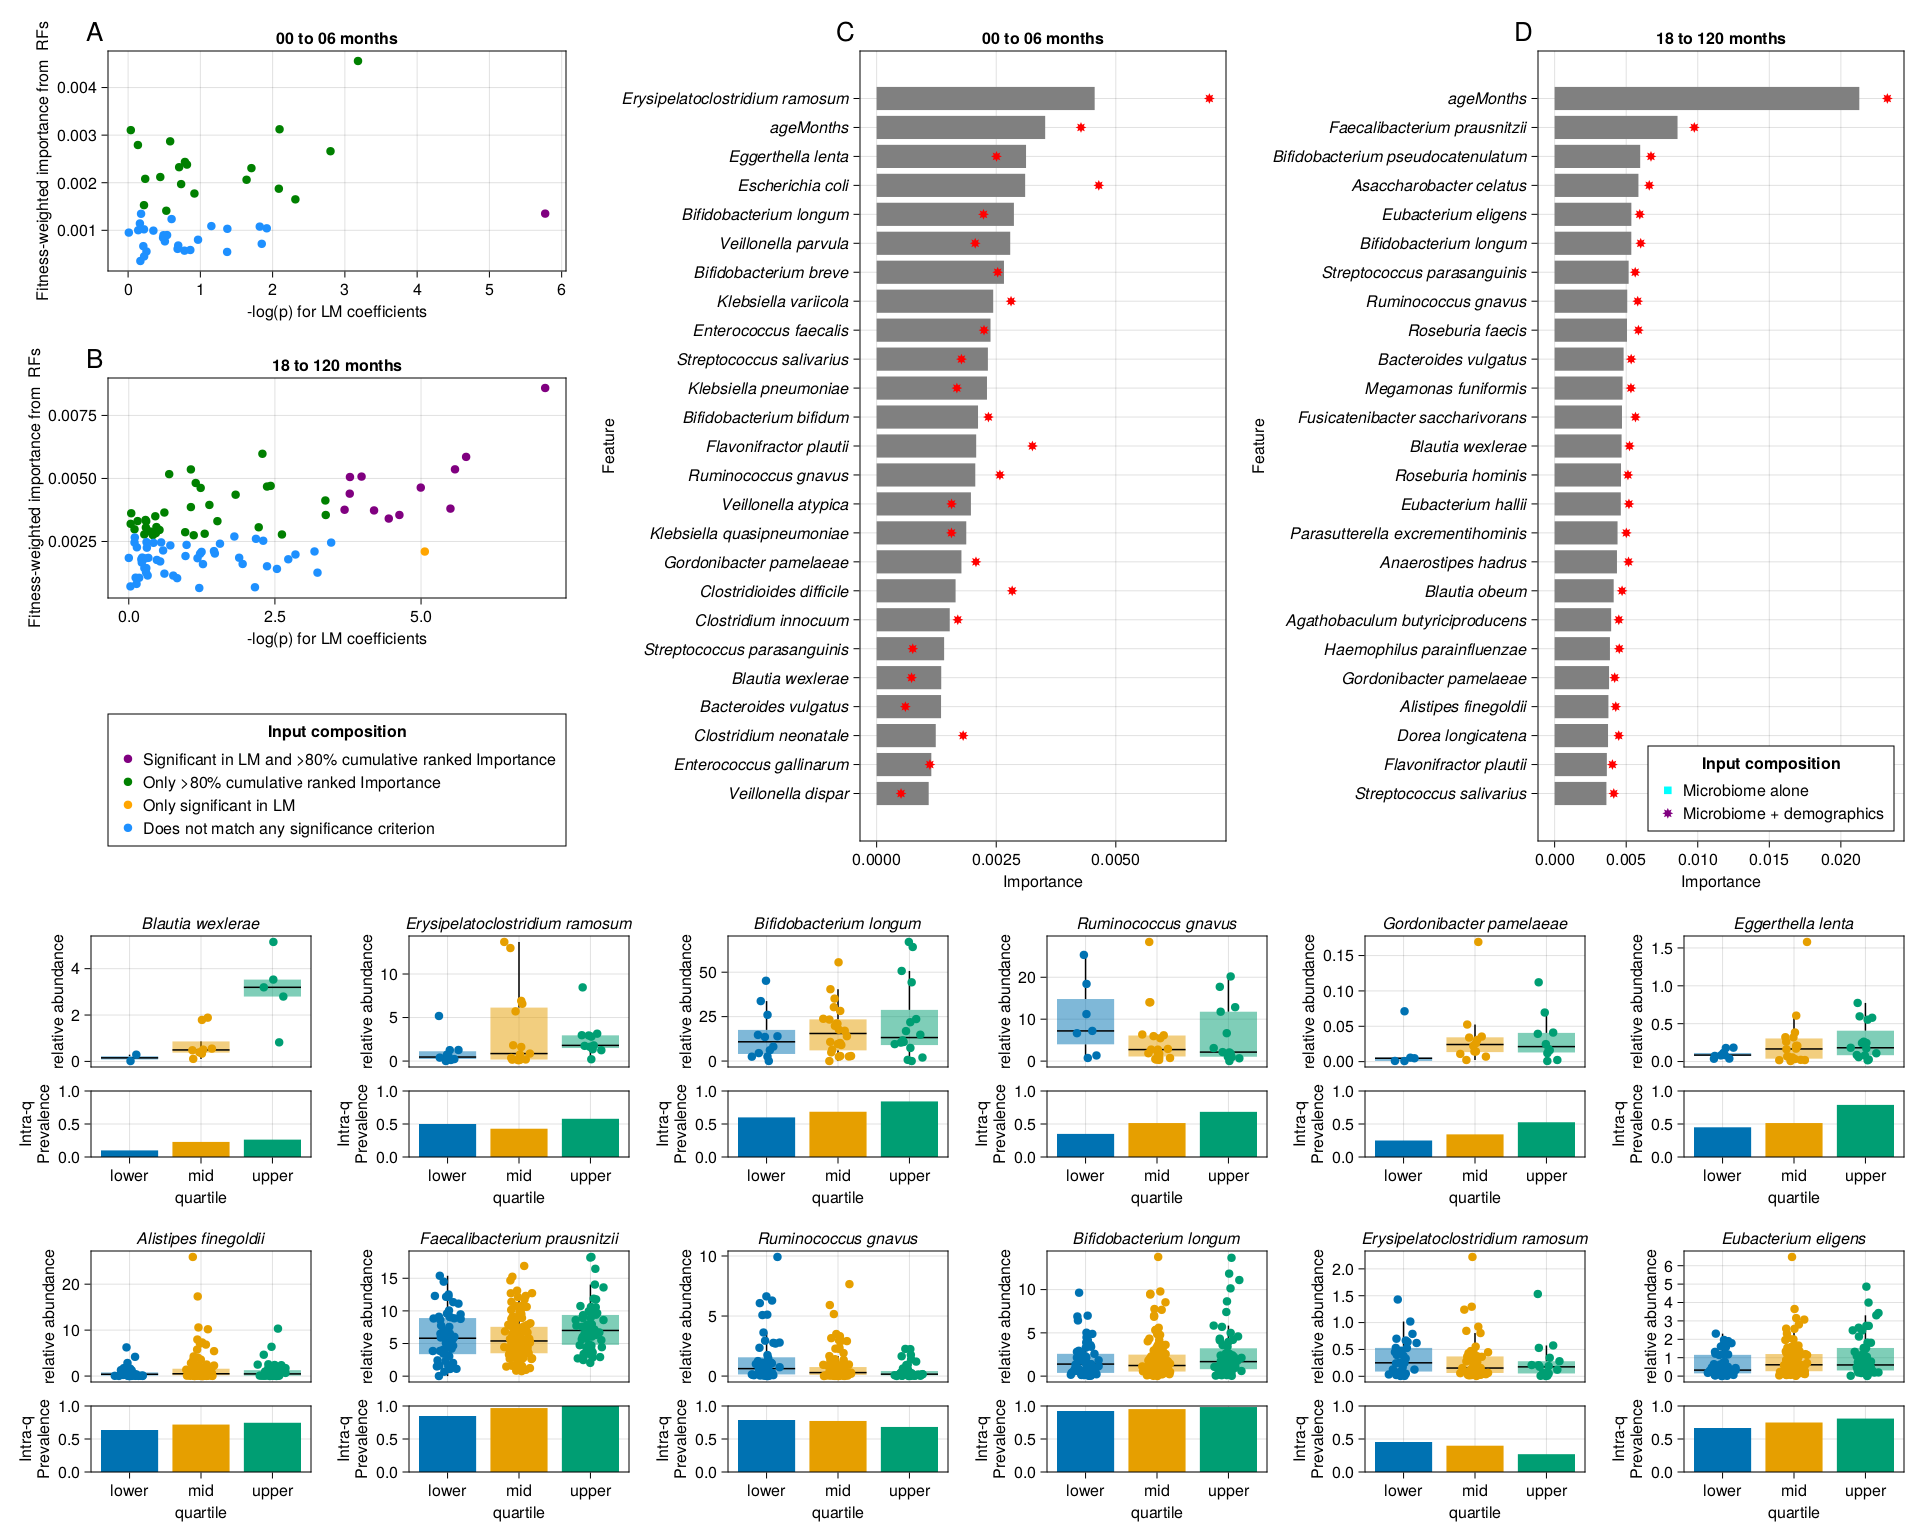
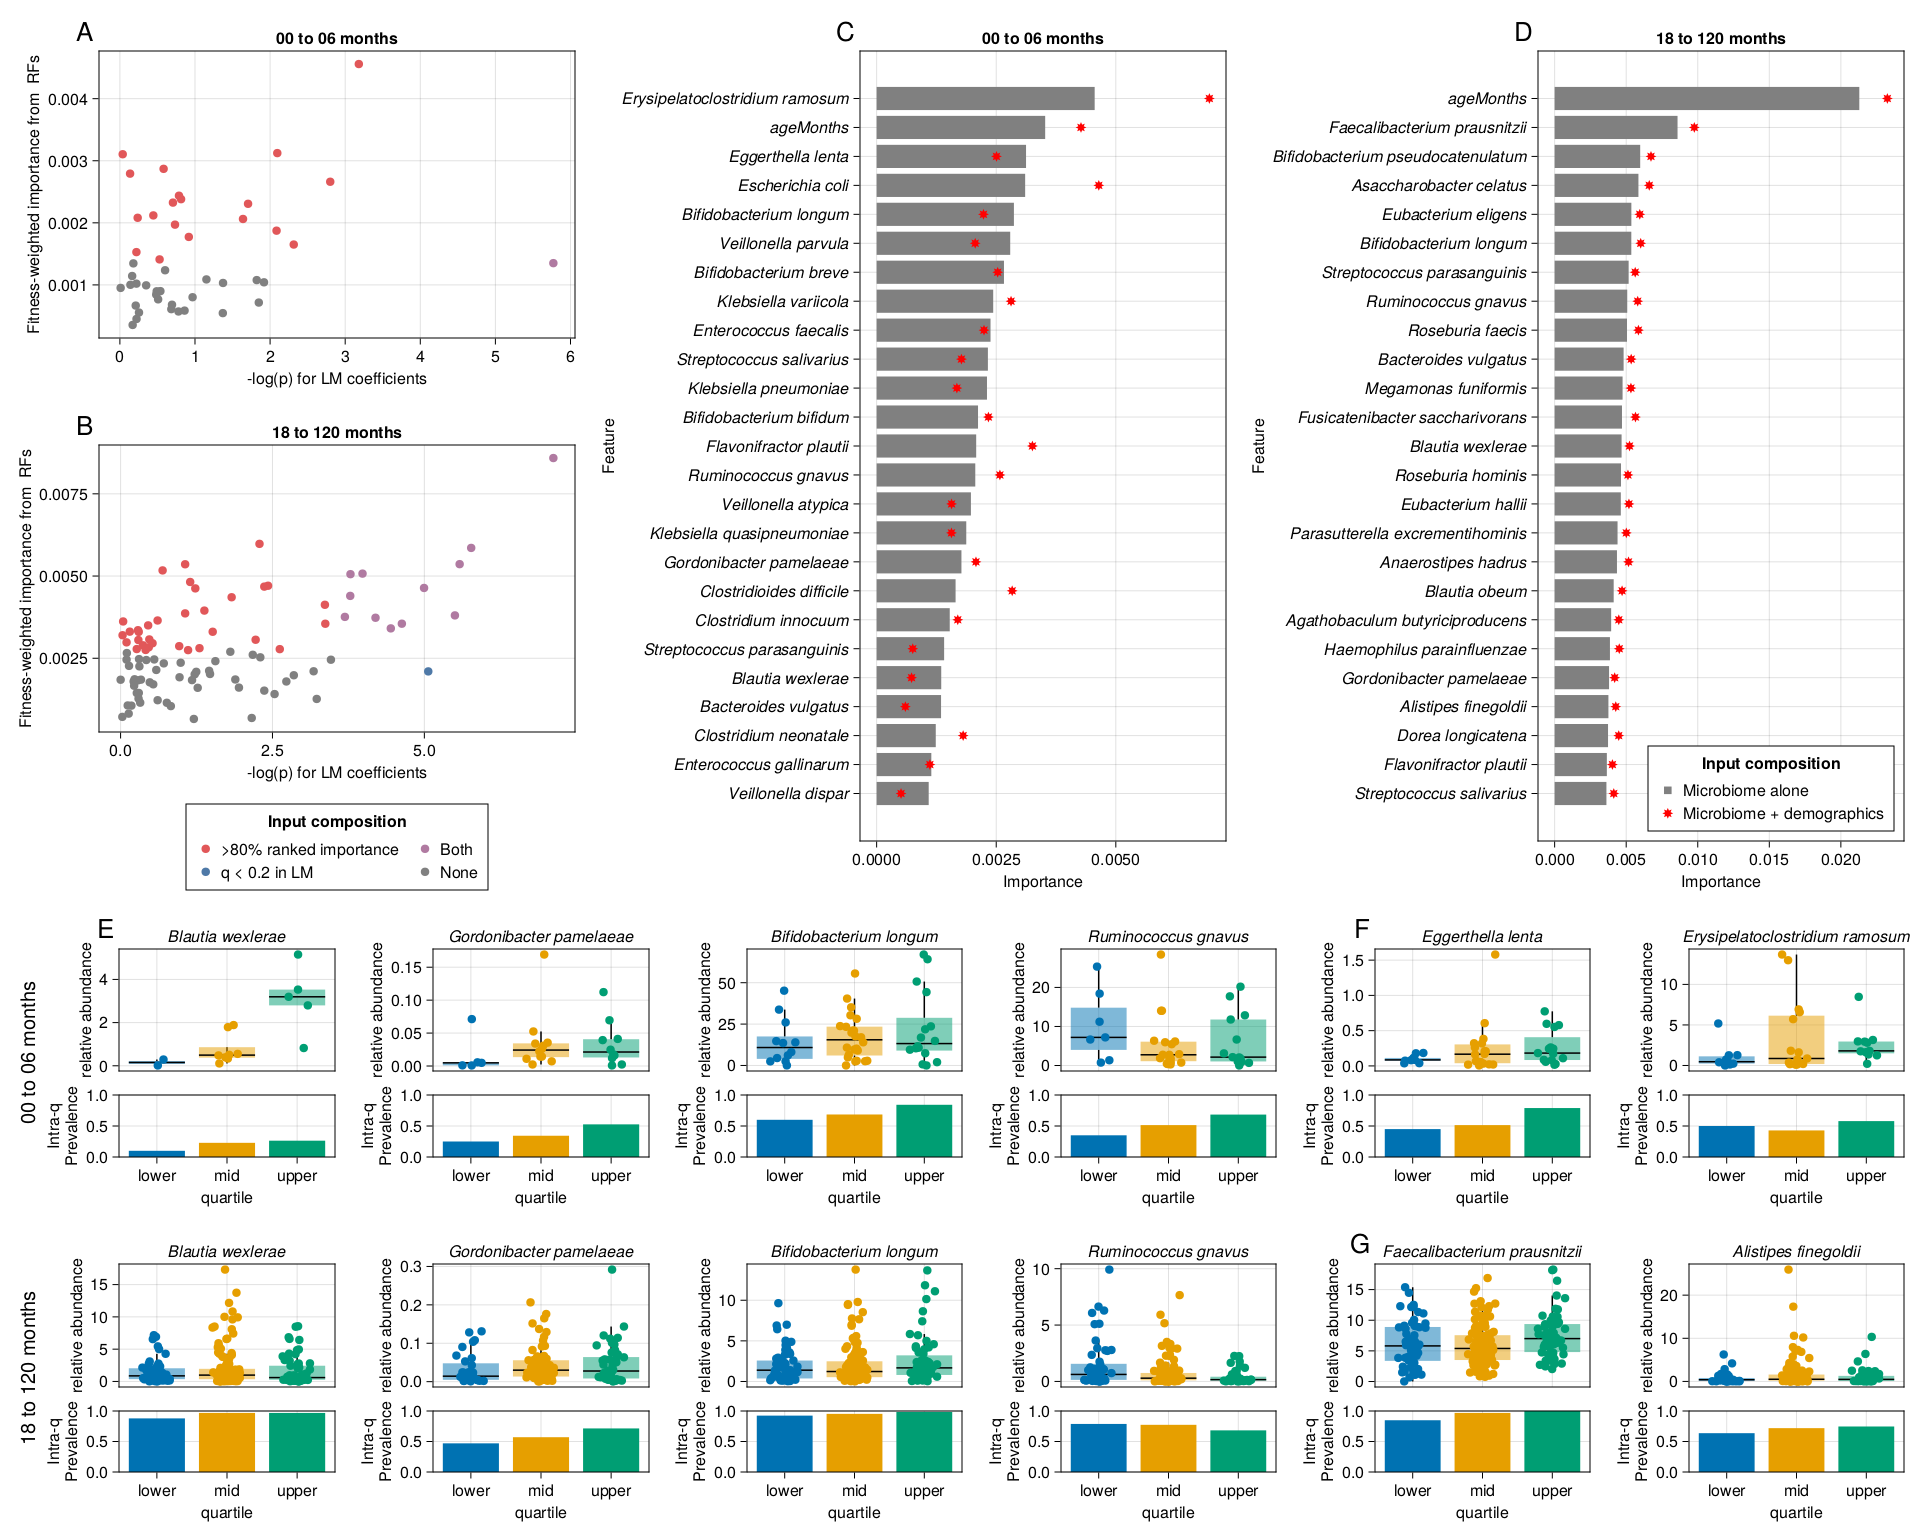
fixed colors, added labels, fixed legend positions, aligned bottom row columns

diff --git a/manuscript/Figure3.md b/manuscript/Figure3.md
@@ -9,6 +9,7 @@ using DataFrames
 using StableRNGs
 using MLJ
 using CairoMakie
+using ColorSchemes
 using DecisionTree
 using JLD2
 using Resonance
@@ -227,25 +228,29 @@ axB = Axis(
     title = "18 to 120 months",
 )
 
-plot_colorset = [:dodgerblue, :orange, :green, :purple]
+plot_colorset = [:gray, ColorSchemes.tableau_10[1], ColorSchemes.tableau_10[3], ColorSchemes.tableau_10[7]]
 plot_comparative_lmvsrf_scatterplots!(axA, regression_currentCogScores_00to06mo_onlytaxa, "/brewster/kevin/scratch/derived/tables/lms_species_00to06.csv"; plot_colorset = plot_colorset)
 plot_comparative_lmvsrf_scatterplots!(axB, regression_currentCogScores_18to120mo_onlytaxa, "/brewster/kevin/scratch/derived/tables/lms_species_18to120.csv"; plot_colorset = plot_colorset)
 
 Legend(
     AB_subfig[3, 1],
     [
-        MarkerElement(; marker=:circle, color=plot_colorset[4]),
         MarkerElement(; marker=:circle, color=plot_colorset[3]),
         MarkerElement(; marker=:circle, color=plot_colorset[2]),
+        MarkerElement(; marker=:circle, color=plot_colorset[4]),
         MarkerElement(; marker=:circle, color=plot_colorset[1]),
     ],
     [
-        "Significant in LM and >80% cumulative ranked Importance",
-        "Only >80% cumulative ranked Importance",
-        "Only significant in LM",
-        "Does not match any significance criterion"
+        ">80% ranked importance",
+        "q < 0.2 in LM",
+        "Both",
+        "None"
     ],
-    "Input composition"
+    "Input composition",
+    tellheight = true,
+    tellwidth = false,
+    nbanks = 2,
+    orientation = :horizontal
 )
 ```
 
@@ -287,7 +292,7 @@ plot_comparativedemo_importance_barplots!(axC, joined_importances_00to06; n_rows
 plot_comparativedemo_importance_barplots!(axD, joined_importances_18to120; n_rows = nbars_toplot)
 
 Legend(
-    CD_subfig[1, 2], [MarkerElement(; marker=:rect, color=:aqua), MarkerElement(; marker=:star8, color=:purple)], ["Microbiome alone", "Microbiome + demographics"], "Input composition",
+    CD_subfig[1, 2], [MarkerElement(; marker=:rect, color=:gray), MarkerElement(; marker=:star8, color=:red)], ["Microbiome alone", "Microbiome + demographics"], "Input composition",
     tellheight = false,
     tellwidth = false,
     margin = (10, 10, 10, 10),
@@ -301,18 +306,18 @@ mdata = Resonance.load(Metadata())
 spec = Resonance.load(TaxonomicProfiles(); timepoint_metadata = mdata)
 
 plot_taxon_deepdive!(E_subfig, 1, spec, :filter_00to06, "Blautia_wexlerae";)
-plot_taxon_deepdive!(E_subfig, 2, spec, :filter_00to06, "Erysipelatoclostridium_ramosum";)
+plot_taxon_deepdive!(E_subfig, 2, spec, :filter_00to06, "Gordonibacter_pamelaeae";)
 plot_taxon_deepdive!(E_subfig, 3, spec, :filter_00to06, "Bifidobacterium_longum";)
 plot_taxon_deepdive!(E_subfig, 4, spec, :filter_00to06, "Ruminococcus_gnavus";)
-plot_taxon_deepdive!(E_subfig, 5, spec, :filter_00to06, "Gordonibacter_pamelaeae";)
-plot_taxon_deepdive!(E_subfig, 6, spec, :filter_00to06, "Eggerthella_lenta";)
+plot_taxon_deepdive!(E_subfig, 5, spec, :filter_00to06, "Eggerthella_lenta";)
+plot_taxon_deepdive!(E_subfig, 6, spec, :filter_00to06, "Erysipelatoclostridium_ramosum";)
 
-plot_taxon_deepdive!(F_subfig, 1, spec, :filter_18to120, "Alistipes_finegoldii";)
-plot_taxon_deepdive!(F_subfig, 2, spec, :filter_18to120, "Faecalibacterium_prausnitzii";)
-plot_taxon_deepdive!(F_subfig, 3, spec, :filter_18to120, "Ruminococcus_gnavus";)
-plot_taxon_deepdive!(F_subfig, 4, spec, :filter_18to120, "Bifidobacterium_longum";)
-plot_taxon_deepdive!(F_subfig, 5, spec, :filter_18to120, "Erysipelatoclostridium_ramosum";)
-plot_taxon_deepdive!(F_subfig, 6, spec, :filter_18to120, "Eubacterium_eligens";)
+plot_taxon_deepdive!(F_subfig, 1, spec, :filter_18to120, "Blautia_wexlerae";)
+plot_taxon_deepdive!(F_subfig, 2, spec, :filter_18to120, "Gordonibacter_pamelaeae";)
+plot_taxon_deepdive!(F_subfig, 3, spec, :filter_18to120, "Bifidobacterium_longum";)
+plot_taxon_deepdive!(F_subfig, 4, spec, :filter_18to120, "Ruminococcus_gnavus";)
+plot_taxon_deepdive!(F_subfig, 5, spec, :filter_18to120, "Faecalibacterium_prausnitzii";)
+plot_taxon_deepdive!(F_subfig, 6, spec, :filter_18to120, "Alistipes_finegoldii";)
 ```
 
 ### Panel labels
@@ -321,6 +326,12 @@ Label(AB_subfig[1, 1, TopLeft()], "A", textsize = 26,font = :bold, padding = (0,
 Label(AB_subfig[2, 1, TopLeft()], "B", textsize = 26,font = :bold, padding = (0, 5, 5, 0), halign = :right)
 Label(CD_subfig[1, 1, TopLeft()], "C", textsize = 26,font = :bold, padding = (0, 5, 5, 0), halign = :right)
 Label(CD_subfig[1, 2, TopLeft()], "D", textsize = 26, font = :bold, padding = (0, 5, 5, 0), halign = :right)
+Label(E_subfig[1, 1, TopLeft()], "E", textsize = 26,font = :bold, padding = (0, 5, 5, 0), halign = :right)
+Label(E_subfig[1, 5, TopLeft()], "F", textsize = 26,font = :bold, padding = (0, 5, 5, 0), halign = :right)
+Label(F_subfig[1, 5, TopLeft()], "G", textsize = 26, font = :bold, padding = (0, 5, 5, 0), halign = :right)
+
+Label(E_subfig[1:2, 1, Left()], "00 to 06 months", textsize = 20, font = :bold, padding = (0, 80, 0, 0), halign = :center, valign = :center, rotation = pi/2)
+Label(F_subfig[1:2, 1, Left()], "18 to 120 months", textsize = 20, font = :bold, padding = (0, 80, 0, 0), halign = :center, valign = :center, rotation = pi/2)
 
 save("manuscript/assets/Figure3.png", figure)
 ```
